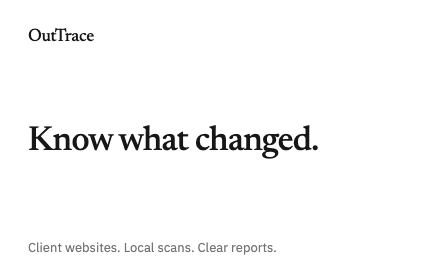
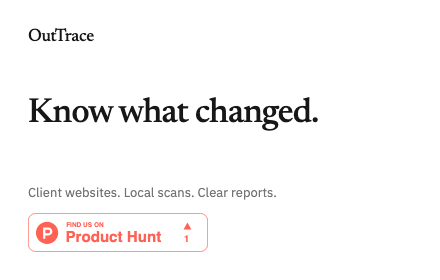
Add Product Hunt badges and release 0.5.3.
Surface the featured badge on Welcome, Settings, the README, store listing copy, and refreshed promo images.

Changed region(s): [[0.0591, 0.3429, 0.7386, 0.5714], [0.0591, 0.7429, 0.6205, 0.9143], [0.0591, 0.6571, 0.6205, 0.7143]]

diff --git a/store/assets/frames.html b/store/assets/frames.html
@@ -321,11 +321,19 @@
   <p class="font-display" style="margin:0; font-size:18px;">OutTrace</p>
   <h1 style="font-size:34px; line-height:1.05; margin:auto 0; max-width:360px;">Know what changed.</h1>
   <p class="mute" style="margin:0; font-size:13px;">Client websites. Local scans. Clear reports.</p>
+  <a href="https://www.producthunt.com/products/outtrace" style="margin-top:12px; display:inline-block;">
+    <img alt="Featured on Product Hunt" width="180" height="39" src="https://api.producthunt.com/widgets/embed-image/v1/featured.svg?post_id=1256657&theme=light" />
+  </a>
 </section>
 
-<section id="shot-marquee" class="shot shot-marquee" style="padding:56px 72px; display:flex; justify-content:space-between; gap:40px;">
+<section id="shot-marquee" class="shot shot-marquee" style="padding:56px 72px; display:flex; justify-content:space-between; gap:40px; position:relative;">
   <div style="display:flex; flex-direction:column; justify-content:space-between; max-width:720px;">
-    <p class="font-display" style="margin:0; font-size:22px;">OutTrace</p>
+    <div style="display:flex; align-items:center; justify-content:space-between; gap:16px;">
+      <p class="font-display" style="margin:0; font-size:22px;">OutTrace</p>
+      <a href="https://www.producthunt.com/products/outtrace" style="flex-shrink:0;">
+        <img alt="Featured on Product Hunt" width="200" height="43" src="https://api.producthunt.com/widgets/embed-image/v1/featured.svg?post_id=1256657&theme=light" />
+      </a>
+    </div>
     <div>
       <p class="kicker" style="margin:0;">Formerly LinkScope</p>
       <h1 style="font-size:72px; line-height:1.02; margin:16px 0 0;">Know what changed.<br>Before your client asks.</h1>

diff --git a/src/dashboard/Settings.tsx b/src/dashboard/Settings.tsx
@@ -16,6 +16,7 @@ import { parseCompleteBackup } from "@/src/storage/backupSchema";
 import { historyCleanupPaused, resumeHistoryCleanup } from "@/src/storage/retention";
 import { blockDomain } from "@/src/extension/block";
 import { usageStatus } from "@/src/telemetry/usage";
+import { ProductHuntBadge } from "@/src/components/ProductHuntBadge";
 import { QuietProtection } from "@/src/components/QuietProtection";
 import { newTabEnabled, notificationMode, setNewTabEnabled, setNotificationMode, type NotificationMode } from "@/src/storage/settings";
 import { useUpgradePrompt } from "@/src/components/UpgradePrompt";
@@ -324,6 +325,13 @@ export function SettingsPage() {
         {imported ? <p className="mt-3 text-[13px] text-lime">{imported}</p> : null}
         {importError ? <p className="mt-3 text-[13px] text-rose">{importError}</p> : null}
         {!billing.data?.paid ? <p className="mt-3 text-[12px] text-mute">Pro adds recurring monitoring and bulk exports. Complete local backups remain free.</p> : null}
+      </section>
+      <section className="mb-8" aria-label="Community">
+        <h2 className="text-[15px] font-medium">Community</h2>
+        <p className="mt-2 text-[14px] leading-relaxed text-mute">
+          OutTrace is on Product Hunt. Upvote or leave feedback if it helps your client workflow.
+        </p>
+        <ProductHuntBadge className="mt-4 inline-block" />
       </section>
       <section className="mb-8" aria-label="Support">
         <h2 className="text-[15px] font-medium">Support</h2>

diff --git a/src/dashboard/Welcome.tsx b/src/dashboard/Welcome.tsx
@@ -1,6 +1,7 @@
 import { useState } from "react";
 import { Link } from "react-router-dom";
 import { ArrowRight, Eye, FileText, ScanSearch } from "lucide-react";
+import { ProductHuntBadge } from "@/src/components/ProductHuntBadge";
 import { Button } from "@/src/components/ui/button";
 import { normalizeWatchedSiteUrl } from "@/src/storage/watchedSites";
 
@@ -123,7 +124,10 @@ export function WelcomePage() {
             Pro · $14.99 once
           </Link>
         </div>
-        <p className="mt-10 max-w-2xl text-[12px] leading-relaxed text-mute">
+        <div className="mt-10">
+          <ProductHuntBadge />
+        </div>
+        <p className="mt-6 max-w-2xl text-[12px] leading-relaxed text-mute">
           OutTrace reports observed connections. It does not certify legal
           compliance or website safety. Scan contents stay on this device;
           sharing and monitoring are your choice.

diff --git a/src/components/ProductHuntBadge.tsx b/src/components/ProductHuntBadge.tsx
@@ -1,0 +1,24 @@
+export const PRODUCT_HUNT_URL =
+  "https://www.producthunt.com/products/outtrace?embed=true&utm_source=badge-featured&utm_medium=badge&utm_campaign=badge-outtrace";
+
+export const PRODUCT_HUNT_IMAGE_URL =
+  "https://api.producthunt.com/widgets/embed-image/v1/featured.svg?post_id=1256657&theme=light&t=1789954186451";
+
+export function ProductHuntBadge({ className }: { className?: string }) {
+  return (
+    <a
+      href={PRODUCT_HUNT_URL}
+      target="_blank"
+      rel="noopener noreferrer"
+      className={className}
+    >
+      <img
+        alt="OutTrace — Track website third parties and catch changes early | Product Hunt"
+        width={250}
+        height={54}
+        src={PRODUCT_HUNT_IMAGE_URL}
+        className="h-[54px] w-[250px] max-w-full"
+      />
+    </a>
+  );
+}

diff --git a/README.md b/README.md
@@ -1,5 +1,7 @@
 # OutTrace
 
+[![OutTrace on Product Hunt](https://api.producthunt.com/widgets/embed-image/v1/featured.svg?post_id=1256657&theme=light)](https://www.producthunt.com/products/outtrace)
+
 Local-first Chrome extension for people who maintain websites: inspect third-party connections, watch for changes after updates, and prepare client reports.
 
 Manual scans are unlimited on every plan. Opening OutTrace shows the latest saved capture first and never starts a scan by itself; use **Check this page** for an explicit capture. Optional **Quiet Protection** re-checks known sites after a 6-second dwell, with a 12-hour per-site cooldown, but never establishes a first-ever site baseline implicitly. It is off by default. **Watching** is separate: explicitly monitor a site when you visit, daily, or weekly. Scheduled checks briefly load a website in an inactive tab. OutTrace itself has no account and sends no scan data anywhere. ExtensionPay and Stripe handle only the payment email/card details and Pro verification.
@@ -97,6 +99,11 @@ The payment-success content script runs only on `https://extensionpay.com/*`; it
 No required host permissions. Pages are not injected at `document_start`.
 
 Permission audit: every declared permission above has a matching runtime feature. OutTrace does not request cookies, browsing history, identity, clipboard, or required host access.
+
+## Links
+
+- [Product Hunt](https://www.producthunt.com/products/outtrace)
+- [Chrome Web Store](https://chromewebstore.google.com/detail/outtrace/eedjncgcdepjbmpapihoigdbdfobmdmc)
 
 ## Development
 

diff --git a/store/listing.md b/store/listing.md
@@ -9,6 +9,8 @@ Monitor website trackers and third-party services. Review changes and prepare cl
 ## Description
 Know what changed. Before your client asks.
 
+Featured on Product Hunt: https://www.producthunt.com/products/outtrace
+
 Formerly LinkScope. OutTrace helps freelancers, developers, and small agencies understand the outside services a website connects to—and review what changes after deployments, plugin updates, or tag changes.
 
 Start with one website you maintain:

diff --git a/CHANGELOG.md b/CHANGELOG.md
@@ -1,5 +1,9 @@
 # Changelog
 
+## 0.5.3 — 2026-09-20
+
+- Added Product Hunt badges to the README, Welcome page, Settings, store listing copy, and promo images.
+
 ## 0.5.2 — 2026-09-20
 
 - Added a Manage billing button for Pro users that opens ExtensionPay for receipts, restore, and billing help.
